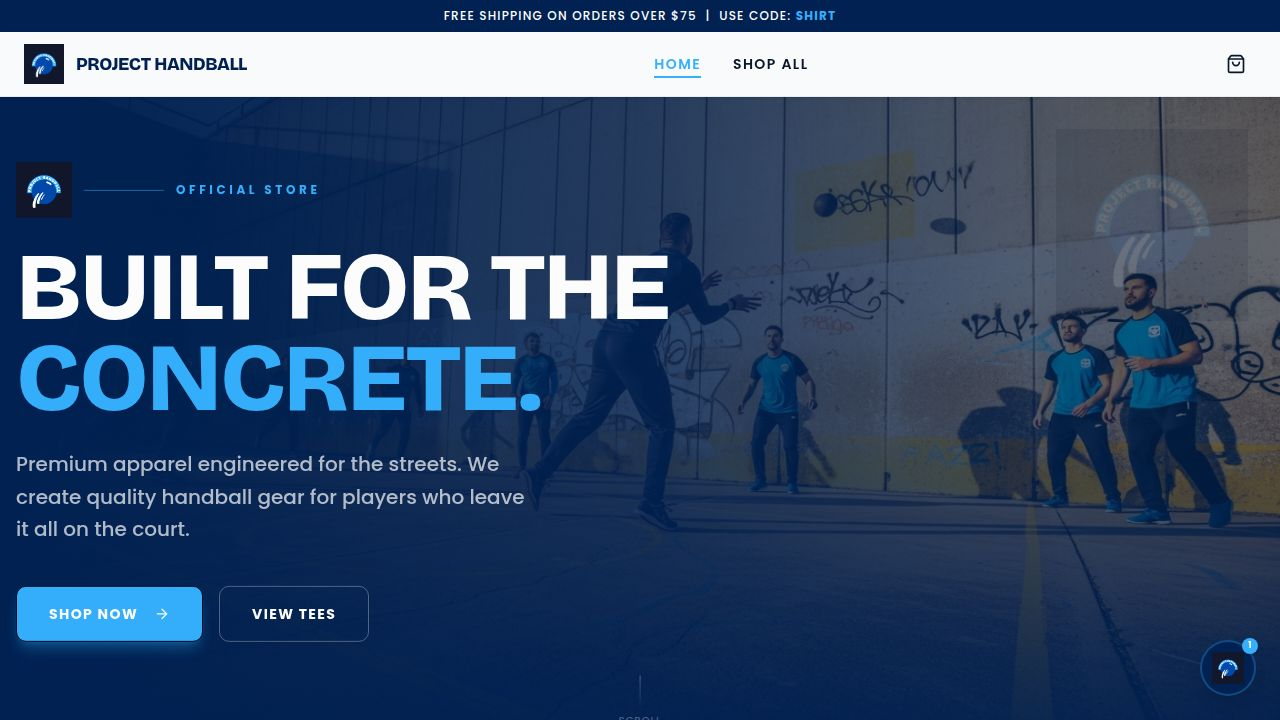
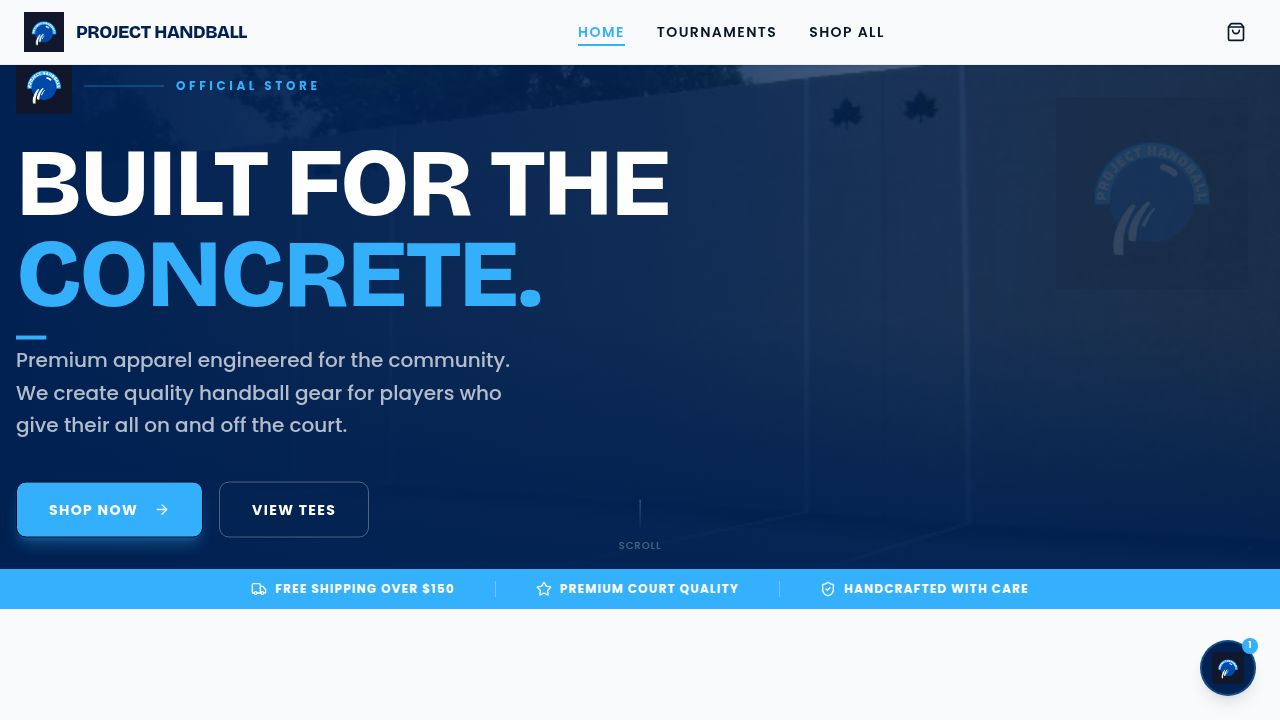
Configure shop for Vercel deployment and improve build process
Update vite.config.ts to handle environment variables for Vercel, remove unused dependency, and create vercel.json for monorepo build configuration.

Replit-Commit-Author: Agent
Replit-Commit-Session-Id: 0a442136-0a74-4df4-b522-e5c9f05a049a
Replit-Commit-Checkpoint-Type: full_checkpoint
Replit-Commit-Event-Id: c761d60a-3057-4b66-b7d9-51e4477744c8
Replit-Commit-Screenshot-Url: https://storage.googleapis.com/screenshot-production-us-central1/63d46e1e-e411-447f-a751-31c3e6735c0e/0a442136-0a74-4df4-b522-e5c9f05a049a/CNxW0T1
Replit-Helium-Checkpoint-Created: true

diff --git a/artifacts/project-handball-shop/vite.config.ts b/artifacts/project-handball-shop/vite.config.ts
@@ -4,26 +4,23 @@ import tailwindcss from "@tailwindcss/vite";
 import path from "path";
 import runtimeErrorOverlay from "@replit/vite-plugin-runtime-error-modal";
 
+const isReplit = process.env.REPL_ID !== undefined;
+
 const rawPort = process.env.PORT;
+const port = rawPort ? Number(rawPort) : 5173;
 
-if (!rawPort) {
-  throw new Error(
-    "PORT environment variable is required but was not provided.",
-  );
-}
-
-const port = Number(rawPort);
-
-if (Number.isNaN(port) || port <= 0) {
+if (rawPort && (Number.isNaN(port) || port <= 0)) {
   throw new Error(`Invalid PORT value: "${rawPort}"`);
 }
 
-const basePath = process.env.BASE_PATH;
+if (isReplit && !rawPort) {
+  throw new Error("PORT environment variable is required but was not provided.");
+}
 
-if (!basePath) {
-  throw new Error(
-    "BASE_PATH environment variable is required but was not provided.",
-  );
+const basePath = process.env.BASE_PATH ?? "/";
+
+if (isReplit && !process.env.BASE_PATH) {
+  throw new Error("BASE_PATH environment variable is required but was not provided.");
 }
 
 export default defineConfig({
@@ -32,8 +29,7 @@ export default defineConfig({
     react(),
     tailwindcss(),
     runtimeErrorOverlay(),
-    ...(process.env.NODE_ENV !== "production" &&
-    process.env.REPL_ID !== undefined
+    ...(process.env.NODE_ENV !== "production" && isReplit
       ? [
           await import("@replit/vite-plugin-cartographer").then((m) =>
             m.cartographer({